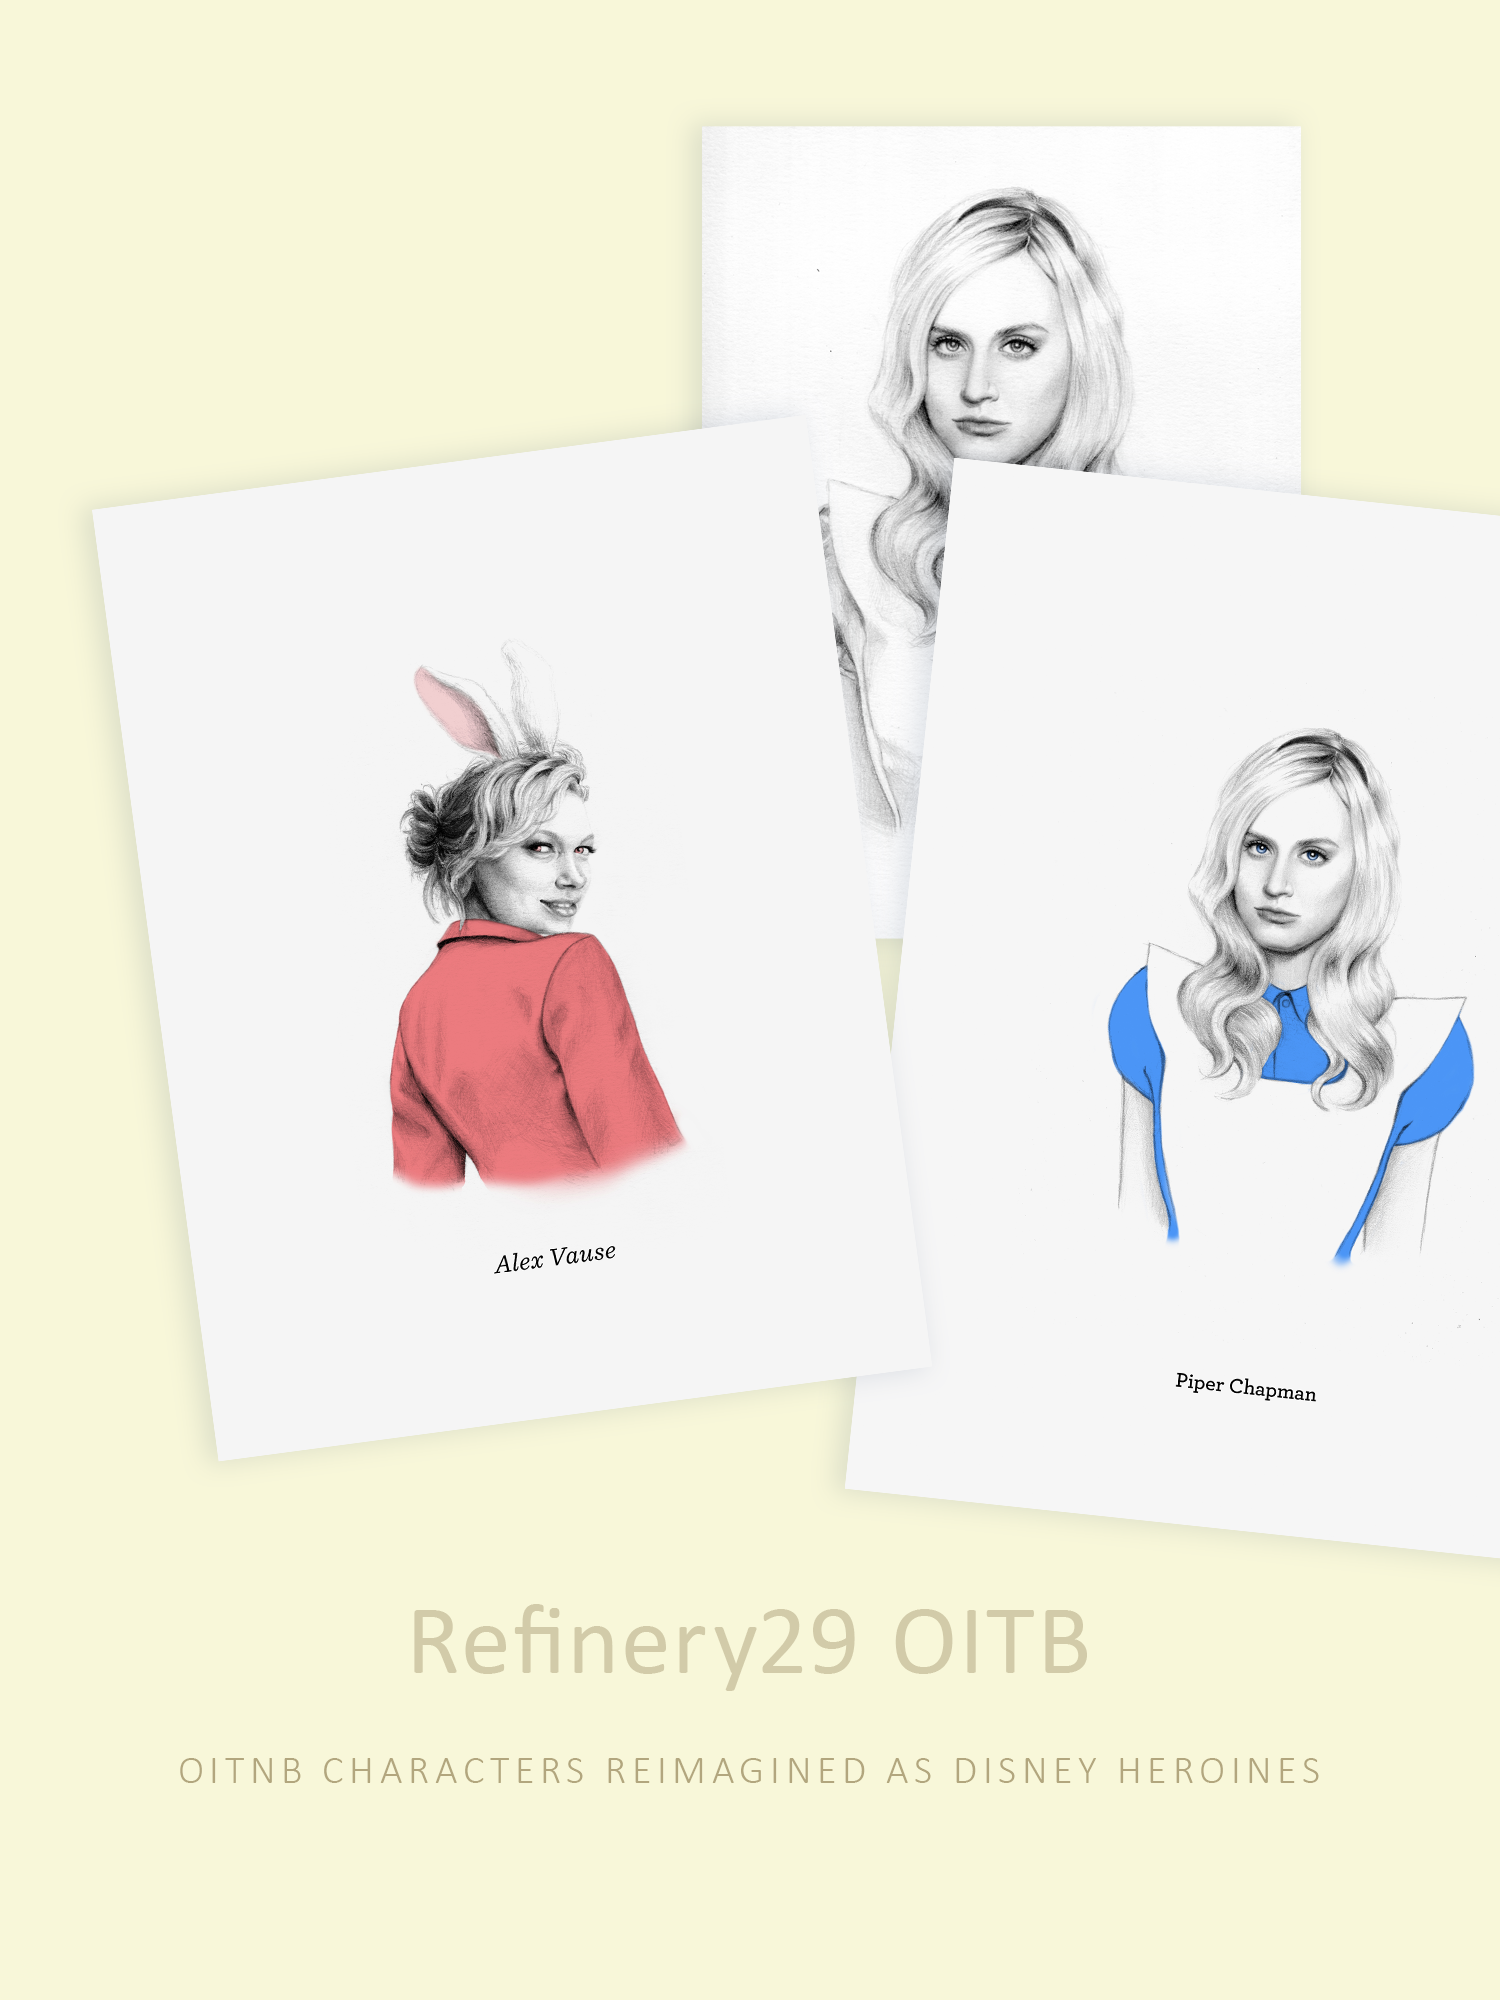
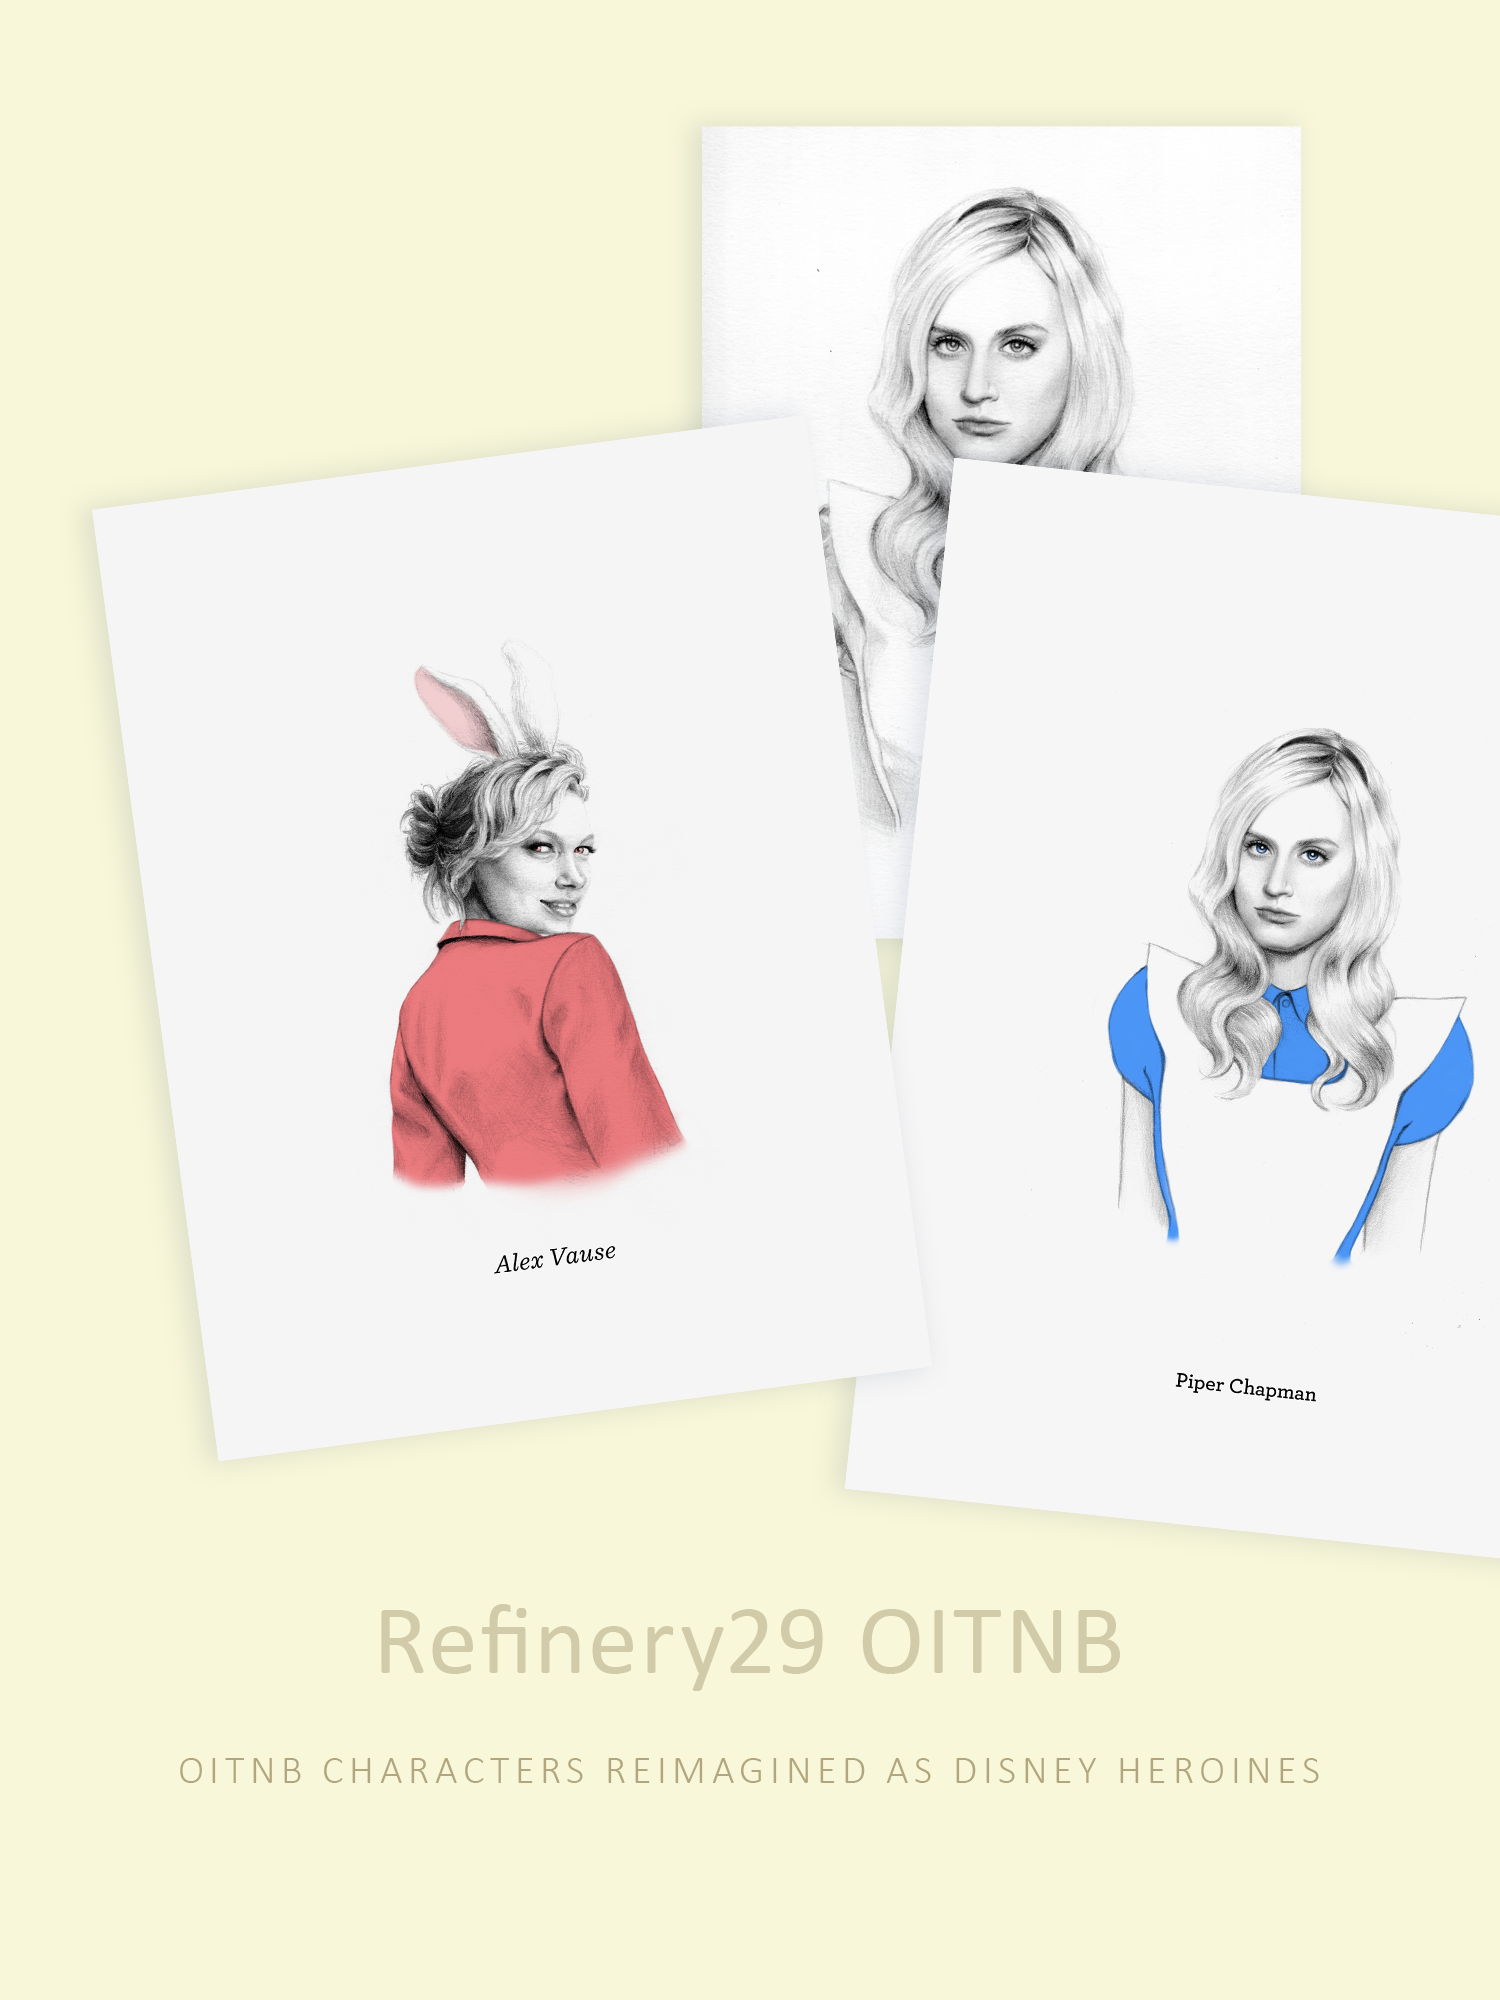
add refinery29

Changed region(s): [[0.2453, 0.806, 0.7667, 0.837]]

diff --git a/portfolio/pages/other/refinery29.html b/portfolio/pages/other/refinery29.html
@@ -1,0 +1,142 @@
+<!DOCTYPE html>
+<html>
+<head>
+  <meta charset="utf-8">
+  <meta name="viewport" content="width=device-width, initial-scale=1.0">
+  <link rel="icon" type="image/png" href="../../assets/favicon.png">
+  <link rel="stylesheet" href="https://use.typekit.net/txl5hjn.css">
+  <script>try{Typekit.load({ async: true });}catch(e){}</script>
+  <title>Poptip Zipline</title>
+  <link rel="stylesheet" type="text/css" href="../../css/main.css">
+  <script src="../../js/pace.js"></script>
+  <link rel="stylesheet" type="text/css" href="../../assets/pace.css">
+</head>
+
+<body class="questions">
+  <div class="content-nav-wrapper">
+    <div class="second-nav-wrapper">
+      <nav>
+        <div class="logo"><a href="../../index.html" class="logosize"><img src="../../assets/logo_dark.svg" class="logosize"></a></div>
+        <ul>
+          <li><a href="../../pages/work.html" class="nav">Work</a></li>
+          <li><a href="../../pages/other.html" class="nav">Other</a></li>
+          <li><a href="../../assets/resume.pdf" class="nav" target="_blank">Resume</a></li>
+        </ul>
+      </nav>
+    </div>
+  </div>
+
+  <div class="wrapper">
+<!-- Cover -->
+    <div class="cover orange padding_bottom_l">
+      <h1 class="font-weight-bold centeredtext title_orange">Refinery29 OINB</h1>
+      <h3 class="font-weight-light centeredtext spacing cover_subtext padding_bottom_l">Reimagining OITNB characters as Disney heroines
+      </h3>
+    </div>
+
+<!-- Overview -->
+    <div class="content padding_top_m">
+      <div class="text_content padding_top_m">
+        <div class="section_intro padding_bottom_m">
+          <div class="section_intro_content">
+            <h2 class="padding_top_s paragraph_title font-weight-bold title_orange">Overview</h2>
+            <p class="paragraph_content">
+              This was a freelance project for a US online publication Refinery29. The theme was to reimagine OITNB characters as Disney heroines. I had full freedom over the concept and execution. After being published on Refinery29, it was further featured on publications such as Cosmopolitan and Glamour magazine.
+            </p>
+          </div>
+          <div class="details">
+            <h4 class="font-weight-bold padding_top_m padding_bottom_s">Freelance Illustrator</h4>
+            <div class="hline"></div>
+            <h4 class="padding_bottom_s padding_top_s">Paper, Pencil, Water Color, Photoshop</h4>
+            <div class="hline"></div>
+            <h4 class="padding_bottom_s padding_top_s">Published in 2015</h4>
+            <div class="hline"></div>
+          </div>
+        </div>
+        <div>
+          <div class="above-image flex-media padding_top_m padding_bottom_m">
+            <a href="https://www.refinery29.com/en-us/orange-is-the-new-black-disney-mashup" class="media" target="blank">
+              <img class="padding_bottom" src="../../assets/media/press_refinery29.png" alt="Questions User Product Flow">
+            </a>
+            <a href="https://www.cosmopolitan.com/entertainment/tv/news/a42092/oitnb-disney-princesses/" class="media" target="blank">
+              <img class="padding_bottom" src="../../assets/media/press_cosmopolitan.png" alt="Questions User Product Flow">
+            </a>
+            <a href="https://www.glamourmagazine.co.uk/article/orange-is-the-black-characters-as-disney-princesses" class="media" target="blank">
+              <img class="padding_bottom" src="../../assets/media/press_glamour.png" alt="Questions User Product Flow">
+            </a>
+          </div>
+        </div>
+      </div>
+    </div>
+
+
+    <div class="content">
+      <div class="text_content">
+        <h2 class="paragraph_title font-weight-bold title_orange">Illustrations</h2>
+        <p>I first hand sketched each character on paper with pencil. Afterwards I scanned all of my sketches to digitize my work and continue the process with Photoshop. Color was added on through Photoshop. 
+        </p>
+        <div class="images">
+
+          <div class="image-header padding_top_l">
+            Piper
+          </div>
+          <div class="padding_top_mm padding_bottom_m image_refinery">
+            <img class="image_shadow" src="../../assets/refinery29/oitnb_piper.jpg" alt="oitnb">
+          </div>
+
+          <div class="image-header padding_top_l">
+            Alex
+          </div>
+          <div class="padding_top_mm padding_bottom_m image_refinery">
+            <img class="image_shadow" src="../../assets/refinery29/oitnb_alex.jpg" alt="oitnb">
+          </div>
+
+          <div class="image-header padding_top_l">
+            Nicky
+          </div>
+          <div class="padding_top_mm padding_bottom_m image_refinery">
+            <img class="image_shadow" src="../../assets/refinery29/oitnb_nicky.jpg" alt="oitnb">
+          </div>
+
+          <div class="image-header padding_top_l">
+            Galina
+          </div>
+          <div class="padding_top_mm padding_bottom_m image_refinery">
+            <img class="image_shadow" src="../../assets/refinery29/oitnb_galina.jpg" alt="oitnb">
+          </div>
+
+          <div class="image-header padding_top_l">
+            Sophia
+          </div>
+          <div class="padding_top_mm padding_bottom_m image_refinery">
+            <img class="image_shadow" src="../../assets/refinery29/oitnb_sophia.jpg" alt="oitnb">
+          </div>
+
+          <div class="image-header padding_top_l">
+            Gloria
+          </div>
+          <div class="padding_top_mm padding_bottom_m image_refinery">
+            <img class="image_shadow" src="../../assets/refinery29/oitnb_gloria.jpg" alt="oitnb">
+          </div>
+
+          <div class="image-header padding_top_l">
+            Tiffany
+          </div>
+          <div class="padding_top_mm padding_bottom_m image_refinery">
+            <img class="image_shadow" src="../../assets/refinery29/oitnb_tiffany.jpg" alt="oitnb">
+          </div>
+
+        </div>
+      </div>
+    </div>
+
+
+<!-- Instagram Zipline Detail View -->
+    <div class="content">
+    </div>
+    <div class="footer">
+      <div class="copyright">2019 © Crafted by Yehyon Chung</div>
+    </div>
+  </div>
+</body>
+</html>
